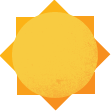
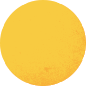
Remove sun triangles

diff --git a/src/simulator/simulator.js b/src/simulator/simulator.js
@@ -69,7 +69,7 @@ var EclipseSimulator = {
         this.end_of_slider = false;
 
         // Sun/moon position in radians
-        this.sunpos  = {x: 0, y: 0, r: 0.25 * Math.PI / 180, apparant_r: 0.34 * Math.PI / 180};
+        this.sunpos  = {x: 0, y: 0, r: 0.26 * Math.PI / 180};
         this.moonpos = {x: 0, y: 0, r: 0.25 * Math.PI / 180};
 
         // Wide field of view in radians
@@ -797,7 +797,7 @@ EclipseSimulator.View.prototype.refresh = function()
         {
             x: this.get_ratio_from_altaz(this.sunpos.az,  az_center,  this.current_fov.x, this.sunpos.r),
             y: this.get_ratio_from_altaz(this.sunpos.alt, alt_center, this.current_fov.y, this.sunpos.r),
-            r: this.get_ratio_from_body_angular_r(this.sunpos.apparant_r, this.sunpos.alt, alt_center),
+            r: this.get_ratio_from_body_angular_r(this.sunpos.r, this.sunpos.alt, alt_center),
         }
     );
     this.position_body_at_percent_coords(
